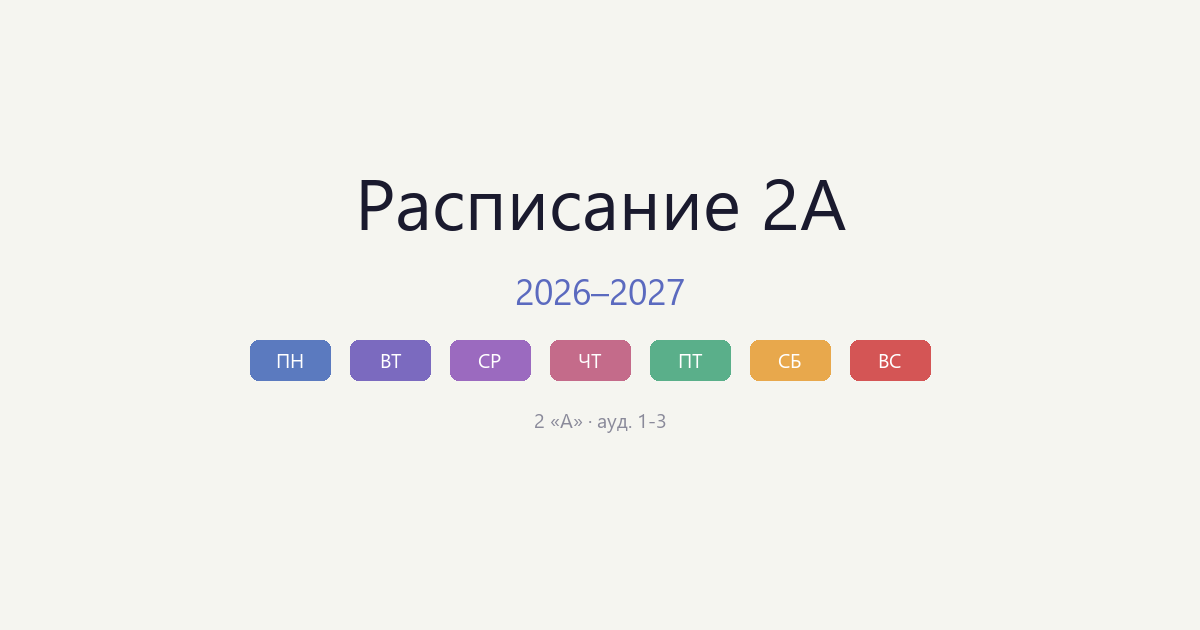
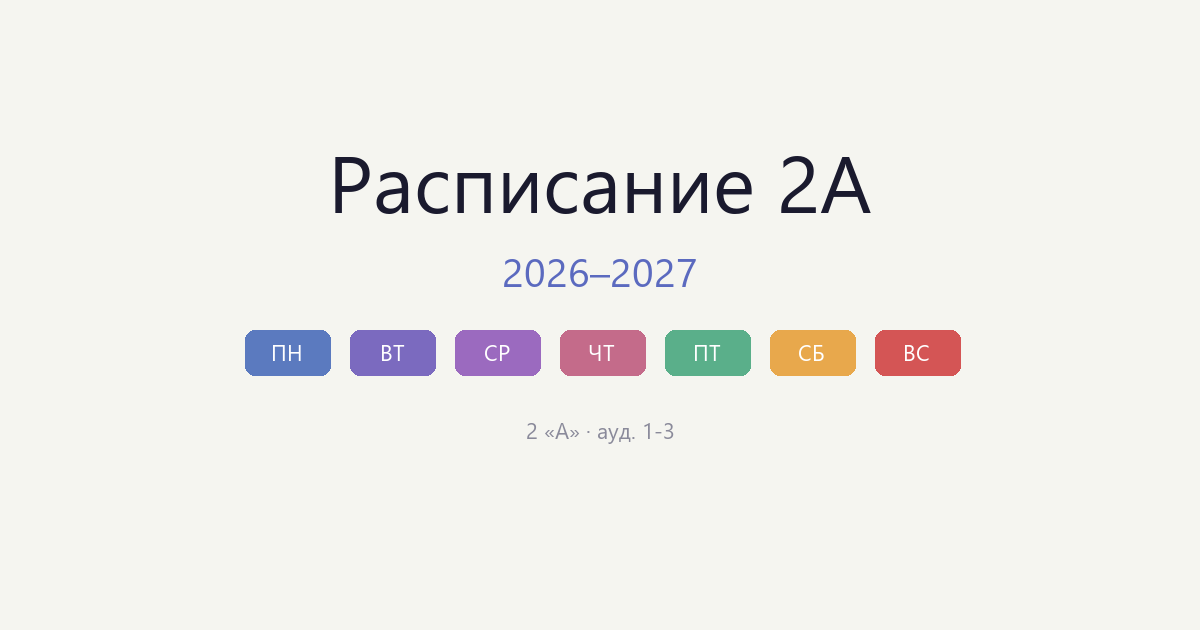
fix swipe, add OG image dimensions

diff --git a/index.html b/index.html
@@ -11,6 +11,8 @@
 <meta property="og:description" content="Расписание уроков 2 «А» класс · ауд. 1-3 · Беларусь">
 <meta property="og:type" content="website">
 <meta property="og:image" content="https://vividlyvividlife.github.io/schedule/og-image.png">
+<meta property="og:image:width" content="1200">
+<meta property="og:image:height" content="630">
 <meta name="twitter:card" content="summary_large_image">
 <meta name="twitter:title" content="Расписание 2А · 2026–2027">
 <meta name="twitter:description" content="Расписание уроков 2 «А» класс · ауд. 1-3">
@@ -382,6 +384,7 @@ const SCHEDULE = [
 let currentDayIdx = -1;
 let touchStartX = 0;
 let touchStartY = 0;
+let touchStartTime = 0;
 
 function getWeekSeed() {
   const now = new Date();
@@ -530,26 +533,24 @@ function switchDay(idx) {
   });
 }
 
-function handleSwipe() {
-  const diff = touchStartX - touchEndX;
-  if (Math.abs(diff) < 50) return;
-  if (diff > 0) {
-    switchDay(Math.min(currentDayIdx + 1, SCHEDULE.length - 1));
-  } else {
-    switchDay(Math.max(currentDayIdx - 1, 0));
-  }
-}
-
 document.addEventListener("touchstart", (e) => {
   touchStartX = e.touches[0].clientX;
   touchStartY = e.touches[0].clientY;
+  touchStartTime = Date.now();
 }, { passive: true });
 
 document.addEventListener("touchend", (e) => {
-  const dx = Math.abs(e.changedTouches[0].clientX - touchStartX);
-  const dy = Math.abs(e.changedTouches[0].clientY - touchStartY);
-  if (dx > dy && dx > 50) {
-    handleSwipe();
+  const endX = e.changedTouches[0].clientX;
+  const endY = e.changedTouches[0].clientY;
+  const dx = endX - touchStartX;
+  const dy = Math.abs(endY - touchStartY);
+  const dt = Date.now() - touchStartTime;
+  if (Math.abs(dx) > 40 && dy < 80 && dt < 500) {
+    if (dx < 0) {
+      switchDay(Math.min(currentDayIdx + 1, SCHEDULE.length - 1));
+    } else {
+      switchDay(Math.max(currentDayIdx - 1, 0));
+    }
   }
 }, { passive: true });
 
